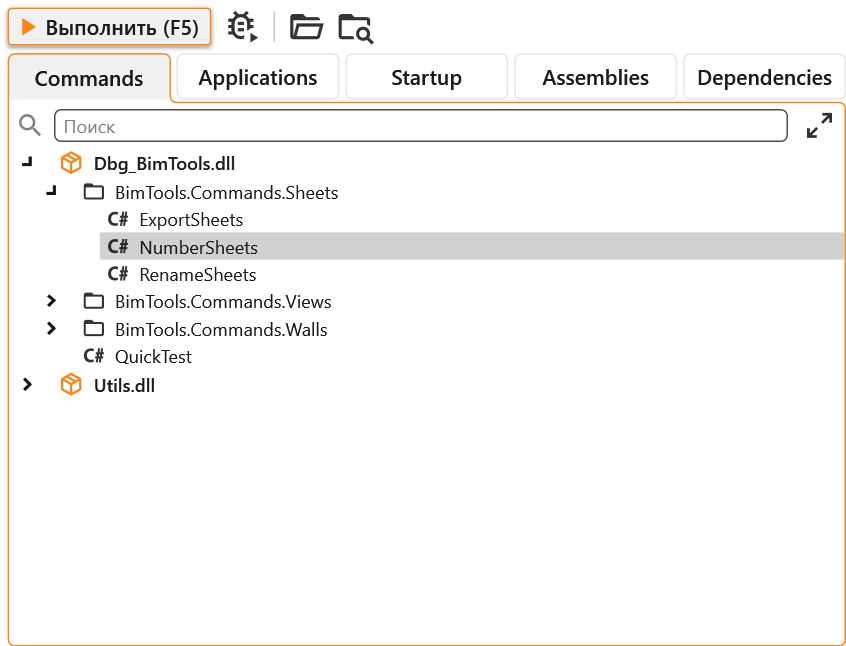
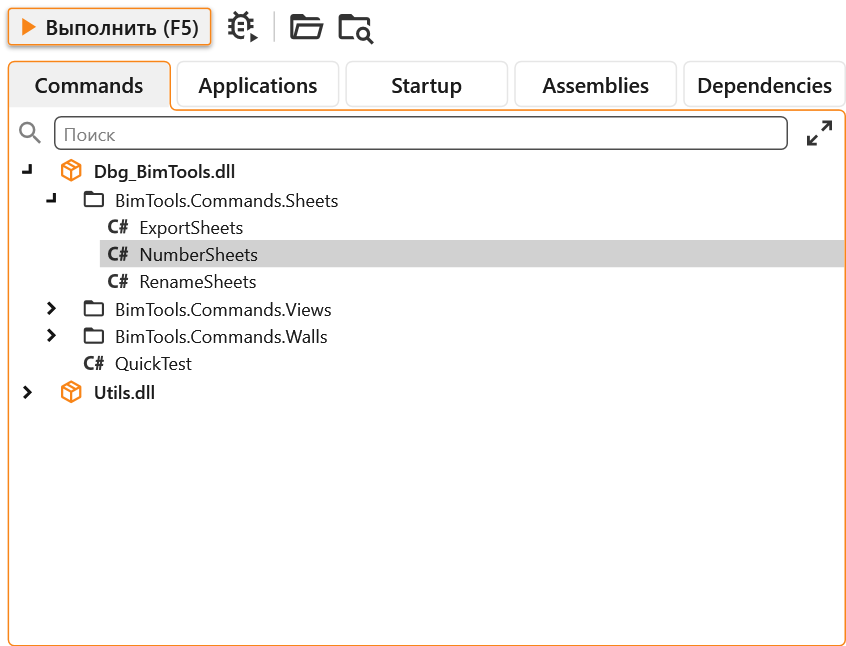
Share console options across consoles

Changed region(s): [[0.0, 0.0929, 1.0, 0.6192], [0.0307, 0.4954, 0.0615, 0.5263]]

diff --git a/source/UI/DllRunner/AssemblyRunnerWindow.xaml b/source/UI/DllRunner/AssemblyRunnerWindow.xaml
@@ -64,6 +64,13 @@
 
             <BooleanToVisibilityConverter x:Key="BoolToVisibility"/>
 
+            <!-- MaterialDesign's tree keeps 8 left of each expander: the rows move 4 left, inside the tree, so the
+                 expanders start 4 from the frame as the lists do. Moved inside, they are clipped by the scrolling area,
+                 and the tree with its scroll bars stays within the frame. -->
+            <ItemsPanelTemplate x:Key="TreeFromEdge">
+                <StackPanel Margin="-4 0 0 0"/>
+            </ItemsPanelTemplate>
+
             <!-- Red for what fails or may fail, orange for what works on someone else's or another copy. -->
             <Style x:Key="SeverityText" TargetType="TextBlock">
                 <Style.Triggers>
@@ -291,7 +298,7 @@
             </StatusBar>
         </StackPanel>
 
-        <TabControl Margin="5 0 5 5" Style="{StaticResource FramedTabControl}" SelectedIndex="{Binding SelectedTabIndex}">
+        <TabControl Margin="5 5 5 5" Style="{StaticResource FramedTabControl}" SelectedIndex="{Binding SelectedTabIndex}">
             <TabItem Header="Commands" Style="{StaticResource FramedTabItem}" HeaderTemplate="{StaticResource TabHeader}">
                     <!-- The tree comes first in focus order, as on Dependencies: a click on the tab does not land in the search box. -->
                     <DockPanel KeyboardNavigation.TabNavigation="Local">
@@ -310,8 +317,7 @@
                         </DockPanel>
 
                         <Grid>
-                            <!-- MaterialDesign's expander keeps 8 to its left; the tree moves over so it starts 4 from the frame, as the lists do. -->
-                            <TreeView ItemsSource="{Binding Assemblies}" Margin="-4 0 0 0" TabIndex="0">
+                            <TreeView ItemsSource="{Binding Assemblies}" ItemsPanel="{StaticResource TreeFromEdge}" TabIndex="0">
                                 <TreeView.Resources>
                                     <BooleanToVisibilityConverter x:Key="BoolToVisibility"/>
 
@@ -754,8 +760,8 @@
                     </DockPanel>
 
                     <Grid>
-                        <!-- As on Commands: the expander starts 4 from the frame. -->
-                        <TreeView ItemsSource="{Binding Dependencies.Sections}" Margin="-4 0 0 0" Grid.IsSharedSizeScope="True" TabIndex="0">
+                        <TreeView ItemsSource="{Binding Dependencies.Sections}" Grid.IsSharedSizeScope="True" TabIndex="0"
+                                  ItemsPanel="{StaticResource TreeFromEdge}">
                             <TreeView.Resources>
                                 <!-- Compact: a small expander (it is also the indent of each level) and no padding. -->
                                 <Style TargetType="TreeViewItem" BasedOn="{StaticResource {x:Type TreeViewItem}}">

diff --git a/source/UI/ScriptEditor/ScriptEditorWindow.xaml b/source/UI/ScriptEditor/ScriptEditorWindow.xaml
@@ -106,7 +106,7 @@
                 <RowDefinition Height="240" MinHeight="80"/>
             </Grid.RowDefinitions>
 
-            <TabControl Grid.Row="0" Margin="5 0 5 5" ItemsSource="{Binding Tabs}" SelectedItem="{Binding SelectedTab}"
+            <TabControl Grid.Row="0" Margin="5 5 5 5" ItemsSource="{Binding Tabs}" SelectedItem="{Binding SelectedTab}"
                         Style="{StaticResource FramedTabControl}">
 
                 <TabControl.ItemContainerStyle>

diff --git a/source/UI/Shared/Theme.xaml b/source/UI/Shared/Theme.xaml
@@ -43,7 +43,7 @@
         </Setter>
     </Style>
 
-    <!-- No margin on top: the gap above the tabs is the toolbar's, the same as the window's edge on the left. -->
+    <!-- No margin on top: the gap above the tabs is the toolbar's and the tab control's, 10 in every window. -->
     <Style x:Key="FramedTabItem" TargetType="TabItem">
         <Setter Property="Margin" Value="2 0 2 1"/>
         <Setter Property="Foreground" Value="{DynamicResource MaterialDesignBody}"/>

diff --git a/source/UI/Console/ConsoleVM.cs b/source/UI/Console/ConsoleVM.cs
@@ -5,30 +5,23 @@ using System;
 
 namespace RevitDevKit.UI.Console
 {
+    // A console's view model. Its options are ConsoleOptions, the same for every console: a change in one shows in
+    // the others at once.
     public partial class ConsoleVM : ObservableObject
     {
-        [ObservableProperty] private bool _isAutoScroll = true;
-        [ObservableProperty] private bool _isTimestamps = false;
-        [ObservableProperty] private bool _isShowDebug = true;
-
         public ConsoleVM()
         {
-            // Both consoles show the same options: a change in one shows in the other.
-            RunOptions.Changed += name => OnPropertyChanged(name == nameof(RunOptions.ClearOnRun) ? nameof(IsClearOnRun) : nameof(IsHideWarnings));
+            ConsoleOptions.Changed += name => OnPropertyChanged("Is" + name);
         }
 
-        // Options of the runs that write here, shared by Script Editor and Add-in Explorer.
-        public bool IsClearOnRun
-        {
-            get => RunOptions.ClearOnRun;
-            set => RunOptions.ClearOnRun = value;
-        }
+        // What runs from Script Editor and Add-in Explorer do with the console.
+        public bool IsClearOnRun { get => ConsoleOptions.ClearOnRun; set => ConsoleOptions.ClearOnRun = value; }
+        public bool IsHideWarnings { get => ConsoleOptions.HideWarnings; set => ConsoleOptions.HideWarnings = value; }
 
-        public bool IsHideWarnings
-        {
-            get => RunOptions.HideWarnings;
-            set => RunOptions.HideWarnings = value;
-        }
+        // How the console shows its output.
+        public bool IsAutoScroll { get => ConsoleOptions.AutoScroll; set => ConsoleOptions.AutoScroll = value; }
+        public bool IsTimestamps { get => ConsoleOptions.Timestamps; set => ConsoleOptions.Timestamps = value; }
+        public bool IsShowDebug { get => ConsoleOptions.ShowDebug; set => ConsoleOptions.ShowDebug = value; }
 
         public event Action<string> StatusReported;
 

diff --git a/source/Core/ConsoleOptions.cs b/source/Core/ConsoleOptions.cs
@@ -1,0 +1,41 @@
+using System;
+
+namespace RevitDevKit.Core
+{
+    // The console's options, one set for every console: the one at the bottom of Script Editor and the dockable
+    // pane show the same output, so they show it the same way, and runs from Script Editor and Add-in Explorer
+    // alike follow the run options. A change in one console shows in the other at once.
+    public static class ConsoleOptions
+    {
+        private static bool _clearOnRun = true;
+        private static bool _hideWarnings;
+        private static bool _autoScroll = true;
+        private static bool _timestamps;
+        private static bool _showDebug = true;
+
+        // The name of the option that changed.
+        public static event Action<string> Changed;
+
+        // The console is cleared before each run.
+        public static bool ClearOnRun { get => _clearOnRun; set => Set(ref _clearOnRun, value, nameof(ClearOnRun)); }
+
+        // Revit's warnings during a run only go to the console, without Revit's dialog.
+        public static bool HideWarnings { get => _hideWarnings; set => Set(ref _hideWarnings, value, nameof(HideWarnings)); }
+
+        // The console follows new output.
+        public static bool AutoScroll { get => _autoScroll; set => Set(ref _autoScroll, value, nameof(AutoScroll)); }
+
+        // New lines start with the time.
+        public static bool Timestamps { get => _timestamps; set => Set(ref _timestamps, value, nameof(Timestamps)); }
+
+        // Debug lines, call stacks among them, are shown.
+        public static bool ShowDebug { get => _showDebug; set => Set(ref _showDebug, value, nameof(ShowDebug)); }
+
+        private static void Set(ref bool field, bool value, string name)
+        {
+            if (field == value) return;
+            field = value;
+            Changed?.Invoke(name);
+        }
+    }
+}

diff --git a/source/UI/ScriptEditor/ScriptEditorVM.cs b/source/UI/ScriptEditor/ScriptEditorVM.cs
@@ -247,7 +247,7 @@ namespace RevitDevKit.UI.ScriptEditor
                 return;
             }
 
-            if (RunOptions.ClearOnRun) ConsoleOutput.Clear();
+            if (ConsoleOptions.ClearOnRun) ConsoleOutput.Clear();
 
             // Without a debugger nothing runs: the user has been told to open Visual Studio.
             string debugFile = null;
@@ -314,7 +314,7 @@ namespace RevitDevKit.UI.ScriptEditor
             {
                 Title = title,
                 AutoTransaction = autoTransaction,
-                HideWarnings = RunOptions.HideWarnings,
+                HideWarnings = ConsoleOptions.HideWarnings,
                 TransactionName = "DevKit: " + title,
                 Body = () => target.Invoke(),
                 Completed = error => _dispatcher.Invoke(() =>

diff --git a/source/UI/DllRunner/AssemblyRunnerVM.cs b/source/UI/DllRunner/AssemblyRunnerVM.cs
@@ -275,7 +275,7 @@ namespace RevitDevKit.UI.DllRunner
                 return;
             }
 
-            if (RunOptions.ClearOnRun) ConsoleOutput.Clear();
+            if (ConsoleOptions.ClearOnRun) ConsoleOutput.Clear();
 
             IsRunning = true;
 
@@ -284,7 +284,7 @@ namespace RevitDevKit.UI.DllRunner
                 Title = target.DisplayName,
                 TransactionName = "DevKit: " + target.Type.Name,
                 SourceDll = path,
-                HideWarnings = RunOptions.HideWarnings,
+                HideWarnings = ConsoleOptions.HideWarnings,
                 Body = () =>
                 {
                     // The window closes on run; showing the console pane needs an API context, i.e. here.

diff --git a/README.md b/README.md
@@ -134,7 +134,7 @@ The copy loaded in this session is marked. A right click on a DLL or an add-in s
 
 ![Console](assets/console.png)
 
-Everything that scripts and DLL commands write goes here: `Console.WriteLine`, `Debug.WriteLine`, `Trace` and exceptions with their call stacks. The console opens as a separate Revit pane and is also shown at the bottom of the script editor. The Console button on the ribbon shows the pane, or hides it when it is open. The output can be cleared (Ctrl+L) and copied. Two checkboxes in its header set how runs from Script Editor and Add-in Explorer alike treat it: **Чистить консоль** (clear console) clears it before each run, and **Скрыть предупреждения** (hide warnings) keeps Revit's warning dialogs away, writing the warnings here only. The others are **Автопрокрутка** (auto scroll), **Время** (timestamps) and **Стек вызовов** (call stacks), the last one showing call stacks and other debug lines.
+Everything that scripts and DLL commands write goes here: `Console.WriteLine`, `Debug.WriteLine`, `Trace` and exceptions with their call stacks. The console opens as a separate Revit pane and is also shown at the bottom of the script editor. The Console button on the ribbon shows the pane, or hides it when it is open. The output can be cleared (Ctrl+L) and copied. Two checkboxes in its header set how runs from Script Editor and Add-in Explorer alike treat it: **Чистить консоль** (clear console) clears it before each run, and **Скрыть предупреждения** (hide warnings) keeps Revit's warning dialogs away, writing the warnings here only. The others are **Автопрокрутка** (auto scroll), **Время** (timestamps) and **Стек вызовов** (call stacks), the last one showing call stacks and other debug lines. All of them are one setting for the console in the editor and the console pane: switched in one, they switch in the other.
 
 ## License
 
